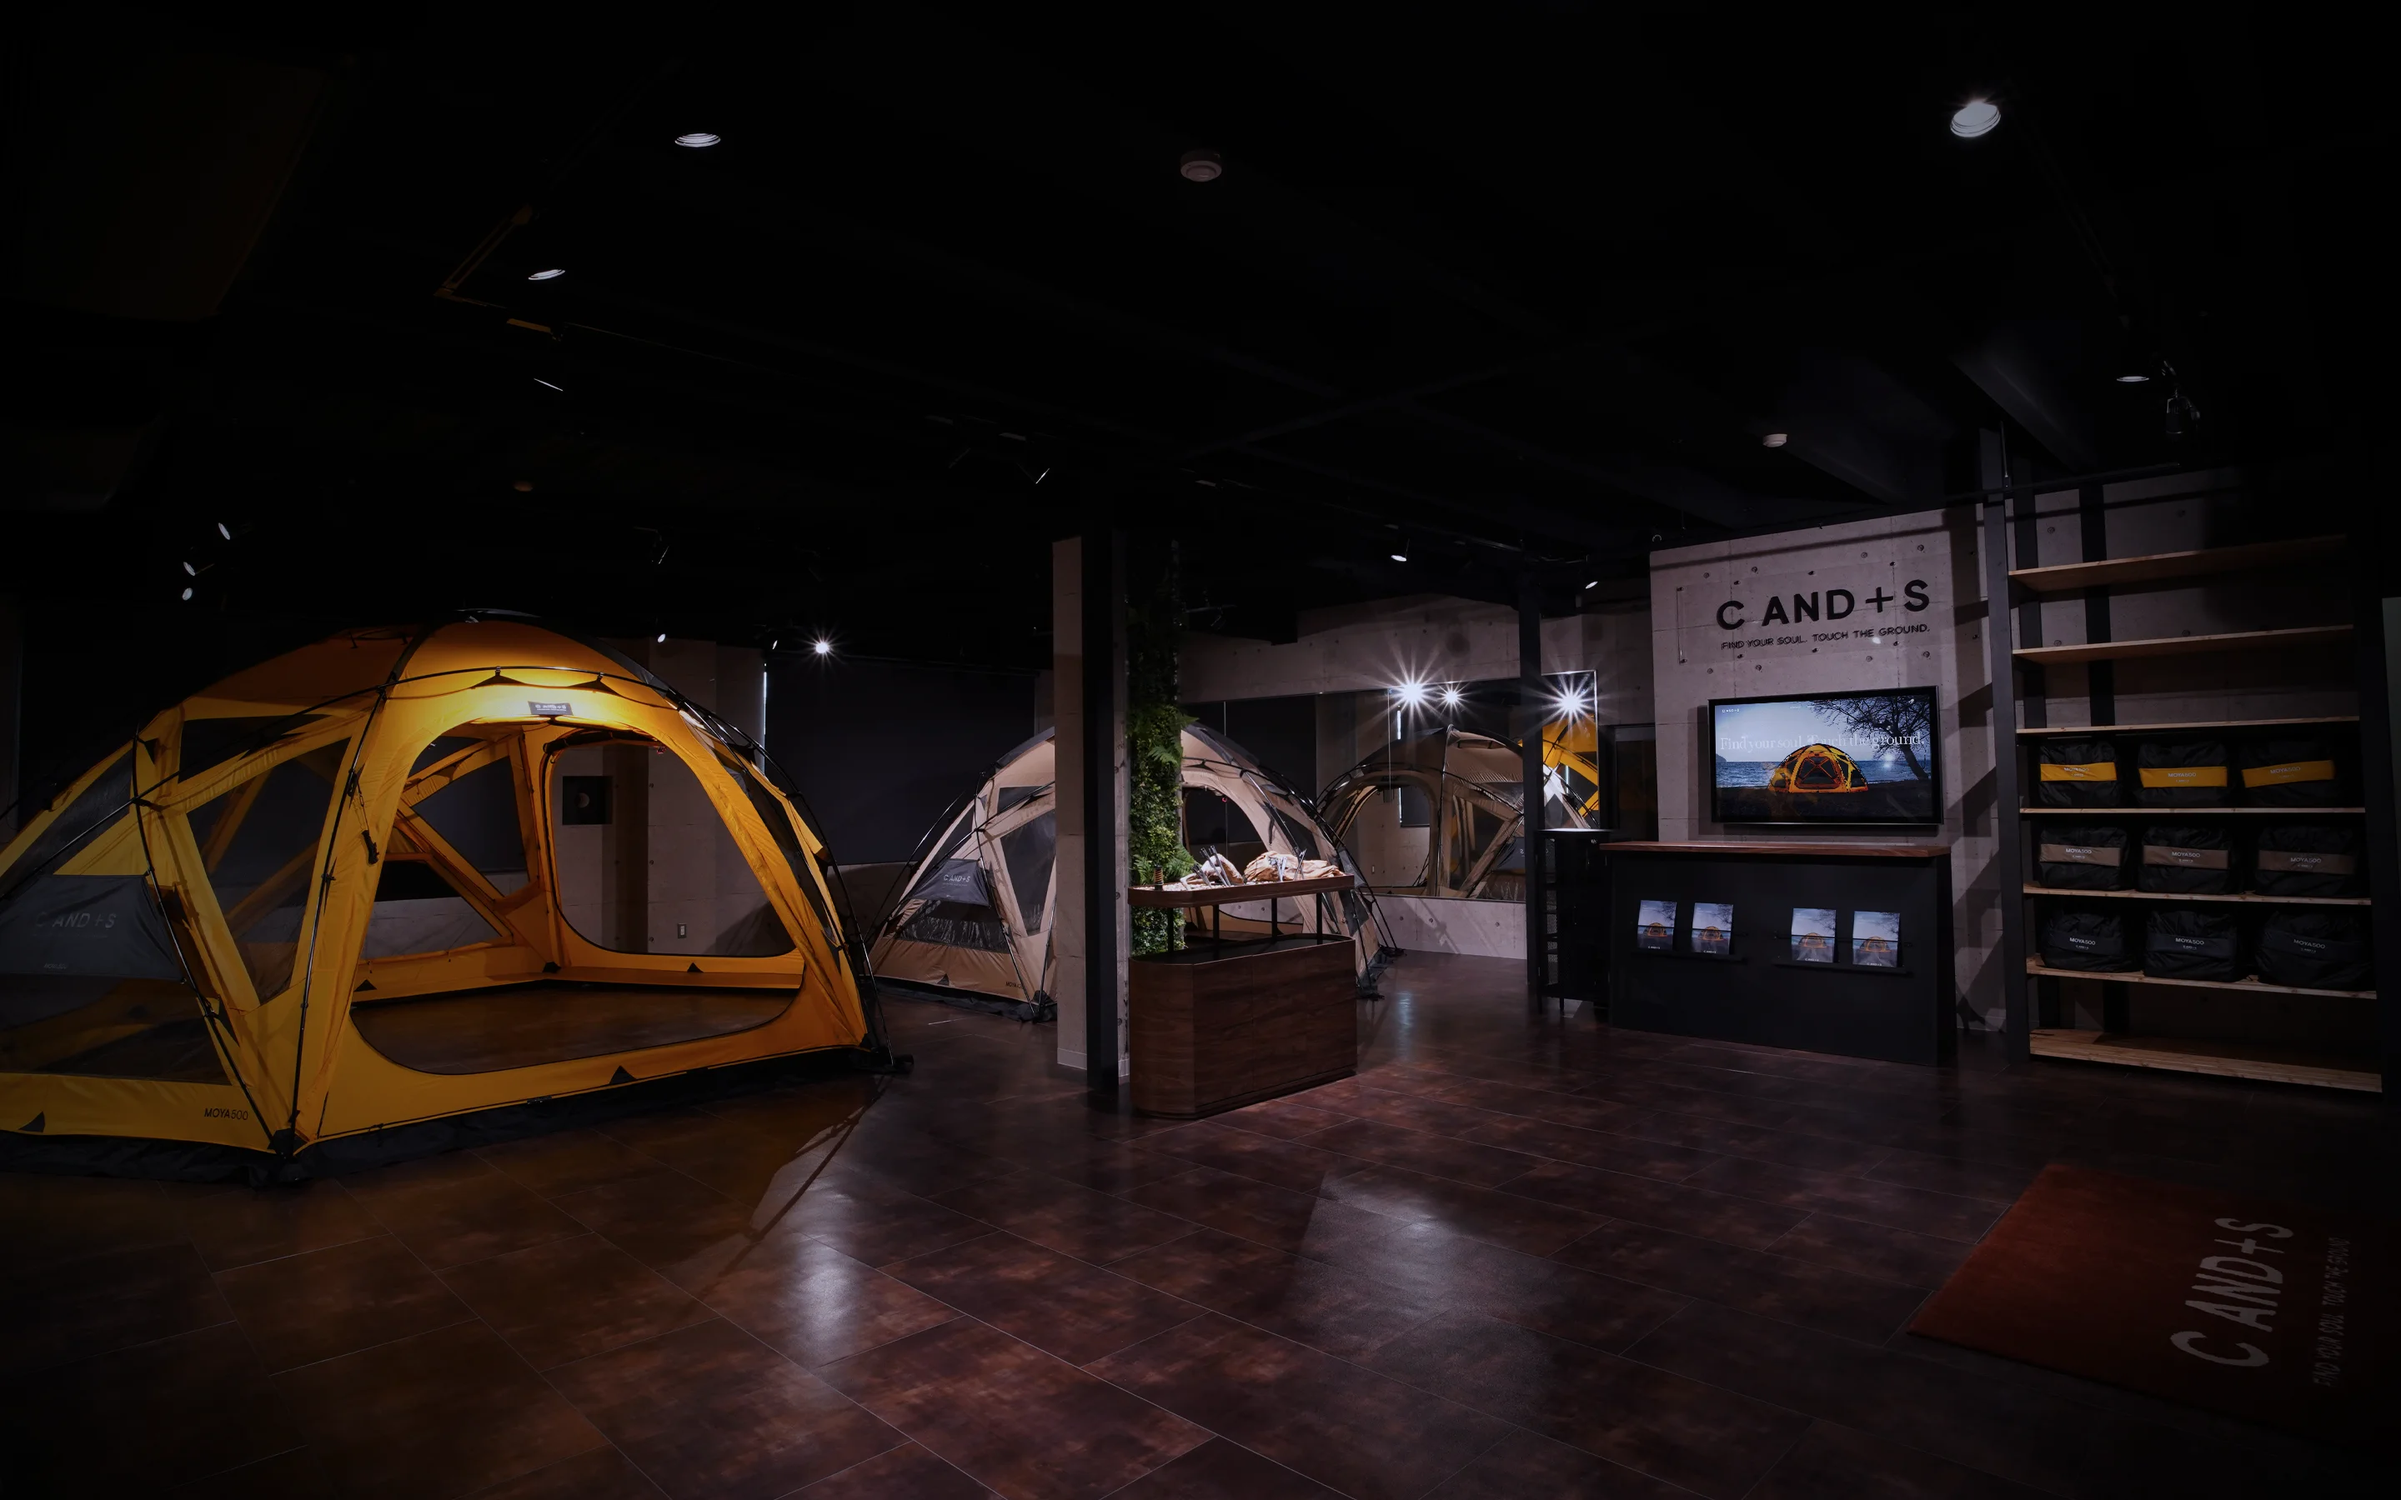
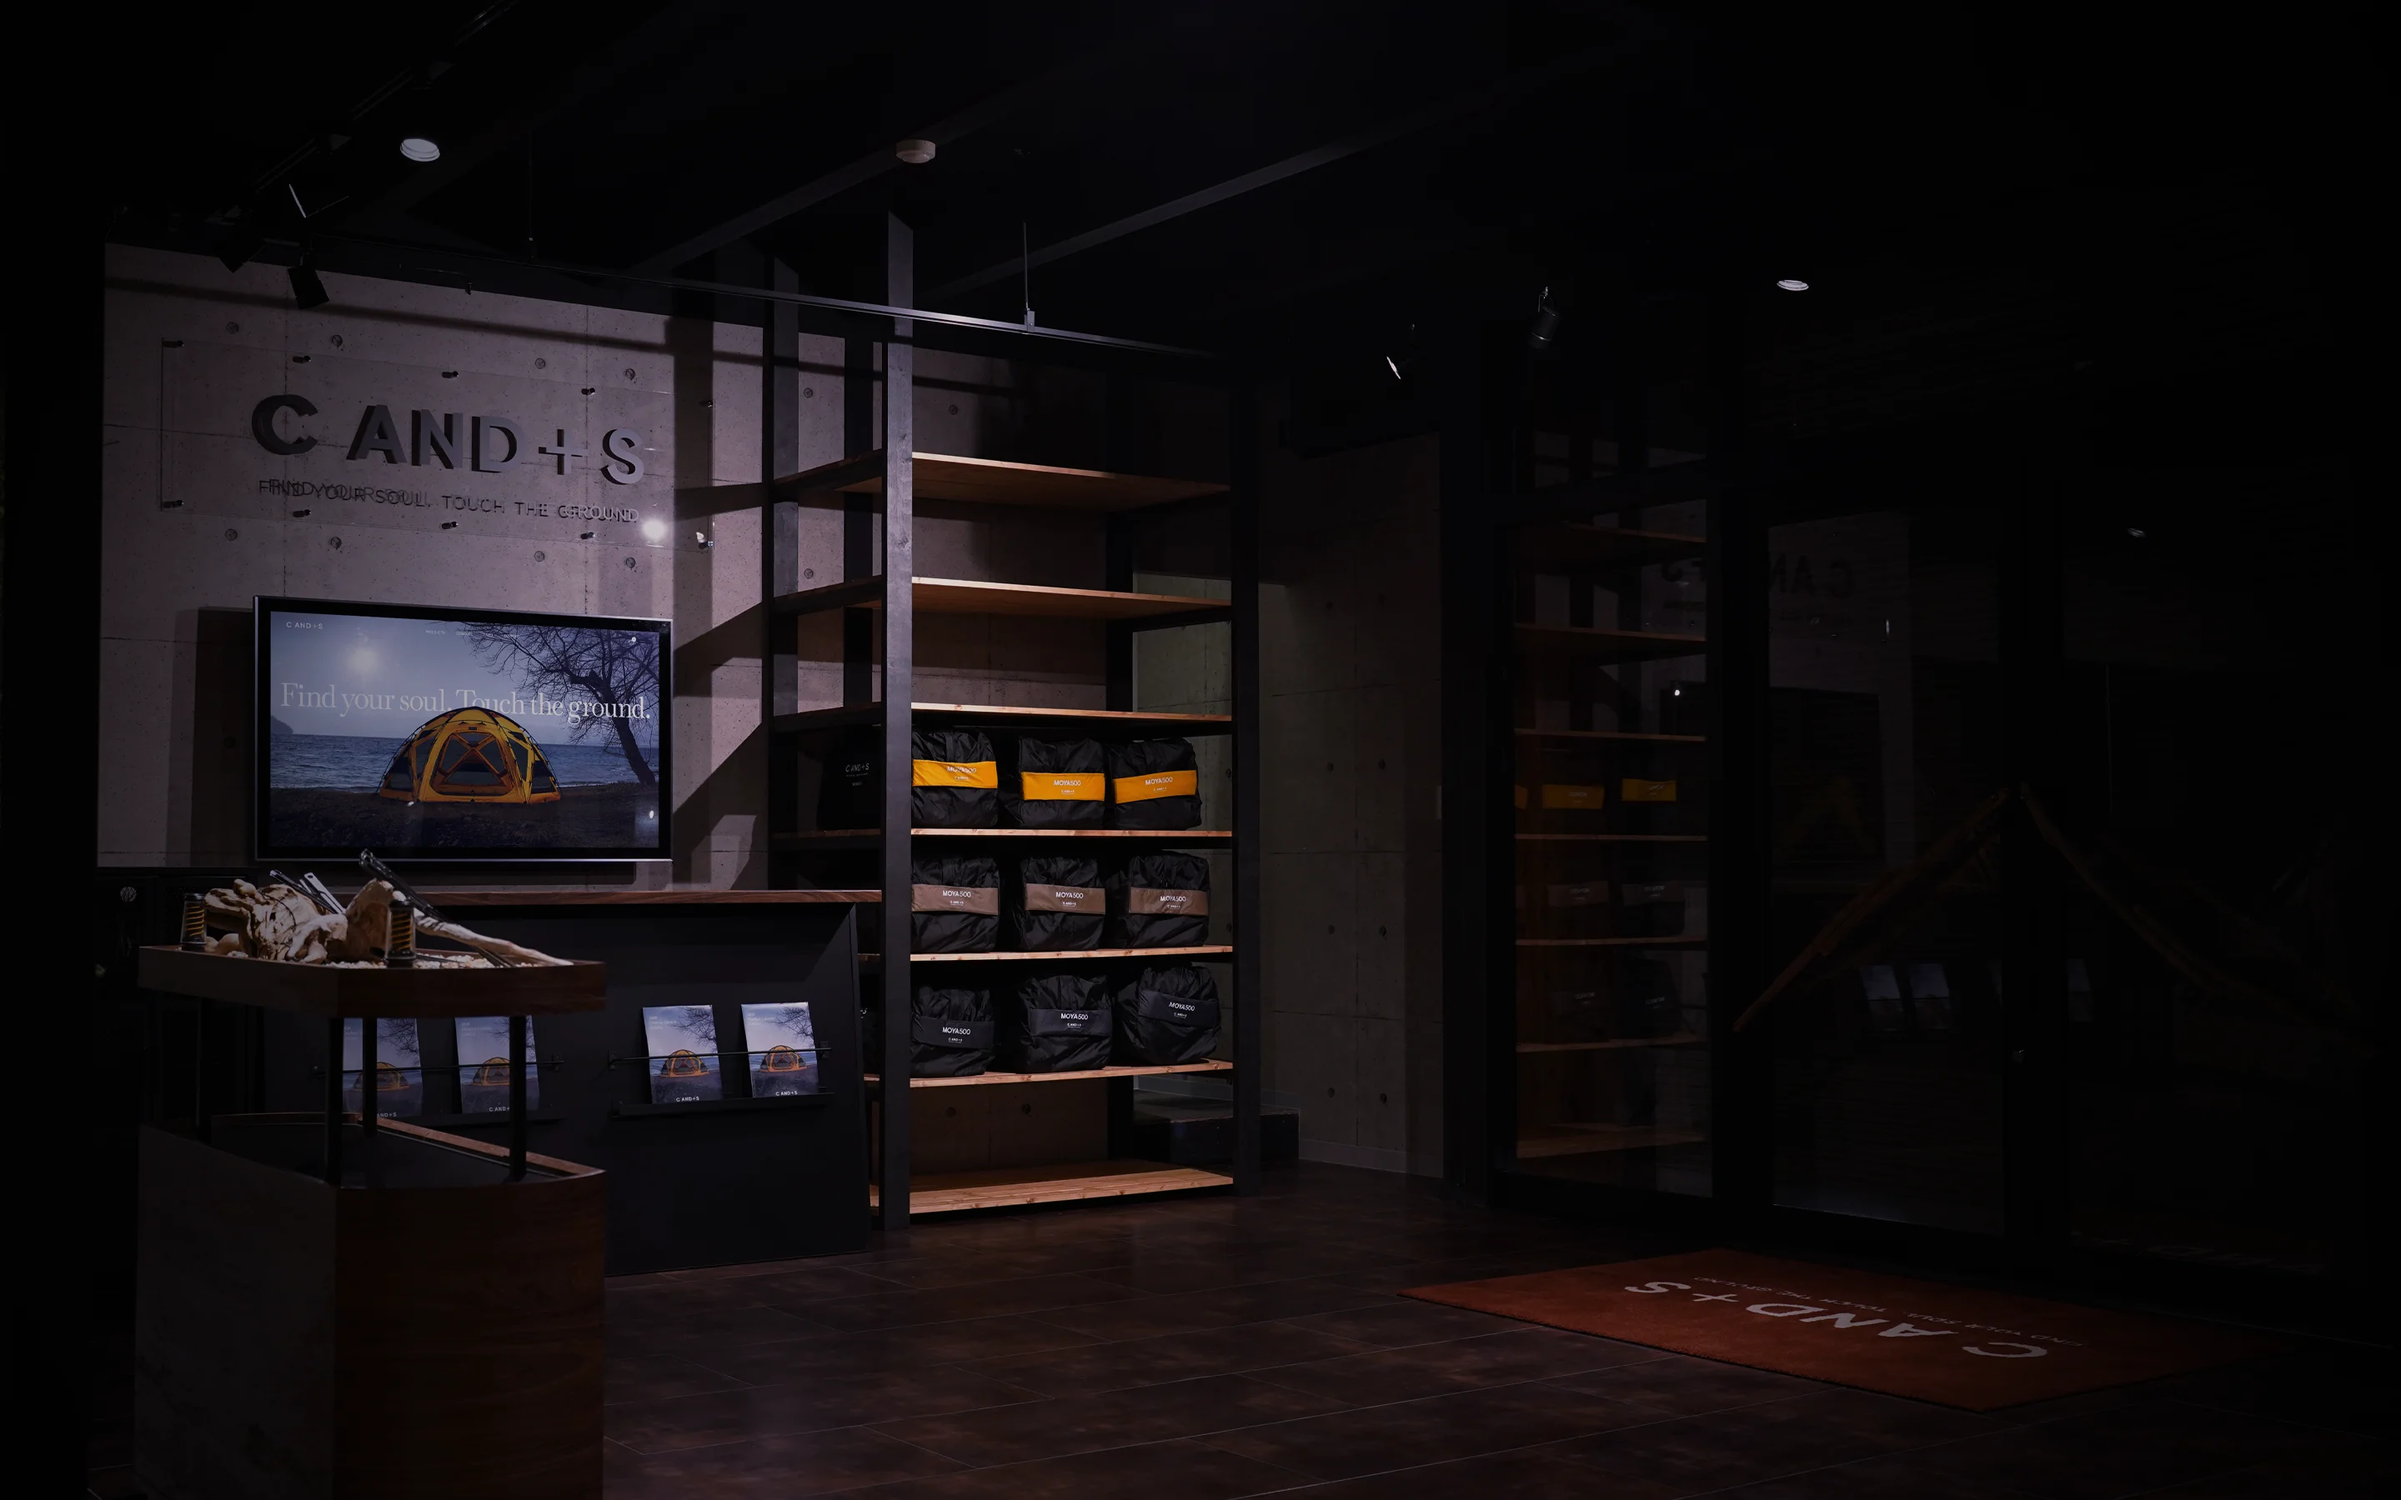
content: replace Labo hero and section images with final assets
About / Activities のダミー画像を本番用画像に差し替え、hero も更新。

diff --git a/data/labo.ts b/data/labo.ts
@@ -19,8 +19,8 @@ export const laboAboutContent = {
   body:
     "MOYAシリーズの製品展示をはじめ、ZIG STAKEなど、C AND+Sの製品を実際にご覧いただけます。オンラインでは感じることのできないサイズ感や素材感、細部のこだわりまで、ぜひご体感ください。",
   image: {
-    src: "/images/labo/labo-materials-01.webp",
-    alt: "C AND+S LABO（ダミー画像）",
+    src: "/images/labo/labo-about-image01.webp",
+    alt: "C AND+S LABO",
   },
   bodyImage: {
     src: "/images/labo/labo-materials-01.webp",
@@ -38,13 +38,13 @@ export const laboActivitiesContent = {
       id: "moya",
       title: "MOYAを実寸サイズで",
       body: "MOYA500、MOYA420を展示。サイズ感や内部空間、生地、フレーム、各部のディテールを直接ご確認いただけます。",
-      image: "/images/labo/labo-materials-03.webp",
+      image: "/images/labo/labo-can-image01.webp",
     },
     {
       id: "zig-stake",
       title: "細部まで手に取って確かめる",
       body: "燕三条で製造するZIG STAKEを展示。重量感や形状、仕上げなど写真ではわからない細部の品質を直接体感いただけます。",
-      image: "/images/home/home-link-zigstake.webp",
+      image: "/images/labo/labo-can-image02.webp",
     },
     {
       id: "purchase",

diff --git a/tests/labo/about.test.ts b/tests/labo/about.test.ts
@@ -25,7 +25,7 @@ const laboPageSource = readFileSync(
 );
 
 describe("labo about section", () => {
-  it("uses the about copy and a single dummy image", () => {
+  it("uses the about copy and section images", () => {
     expect(laboAboutContent.number).toBe("01.");
     expect(laboAboutContent.title).toBe("LABOについて");
     expect(laboAboutContent.titleWrapSegments).toEqual(["LABOに", "ついて"]);
@@ -35,7 +35,7 @@ describe("labo about section", () => {
       "MOYAシリーズの製品展示をはじめ、ZIG STAKEなど"
     );
     expect(laboAboutContent.image.src).toBe(
-      "/images/labo/labo-materials-01.webp"
+      "/images/labo/labo-about-image01.webp"
     );
     expect(laboAboutContent.bodyImage.src).toBe(
       "/images/labo/labo-materials-01.webp"

diff --git a/tests/labo/activities.test.ts b/tests/labo/activities.test.ts
@@ -29,6 +29,11 @@ describe("labo activities section", () => {
       "確かめてその場で選ぶ",
     ]);
     expect(laboActivitiesContent.items).toHaveLength(3);
+    expect(laboActivitiesContent.items.map((item) => item.image)).toEqual([
+      "/images/labo/labo-can-image01.webp",
+      "/images/labo/labo-can-image02.webp",
+      "/images/home/home-link-products.webp",
+    ]);
   });
 
   it("follows the Home News three-column card layout", () => {
